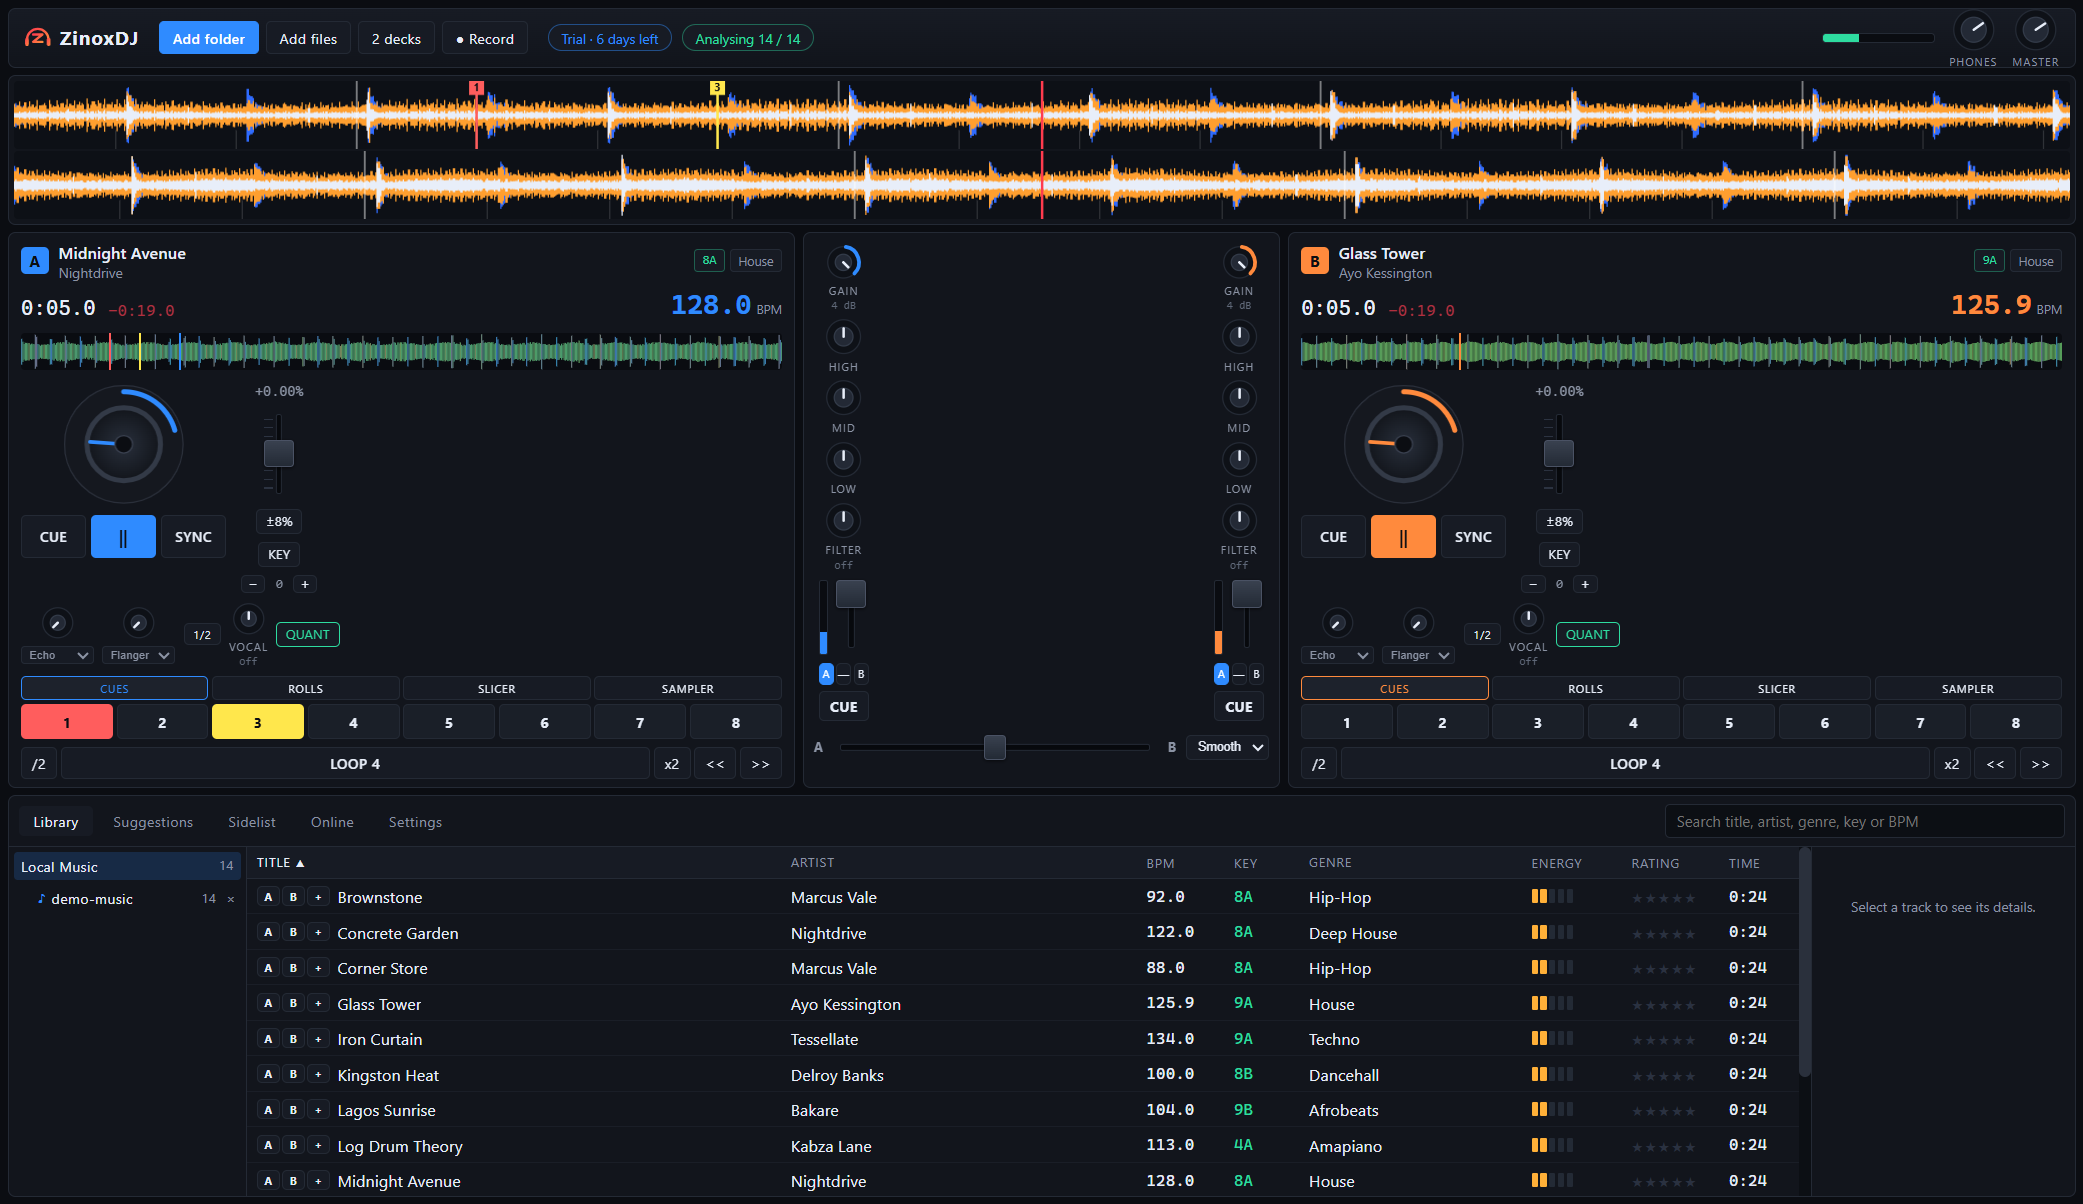
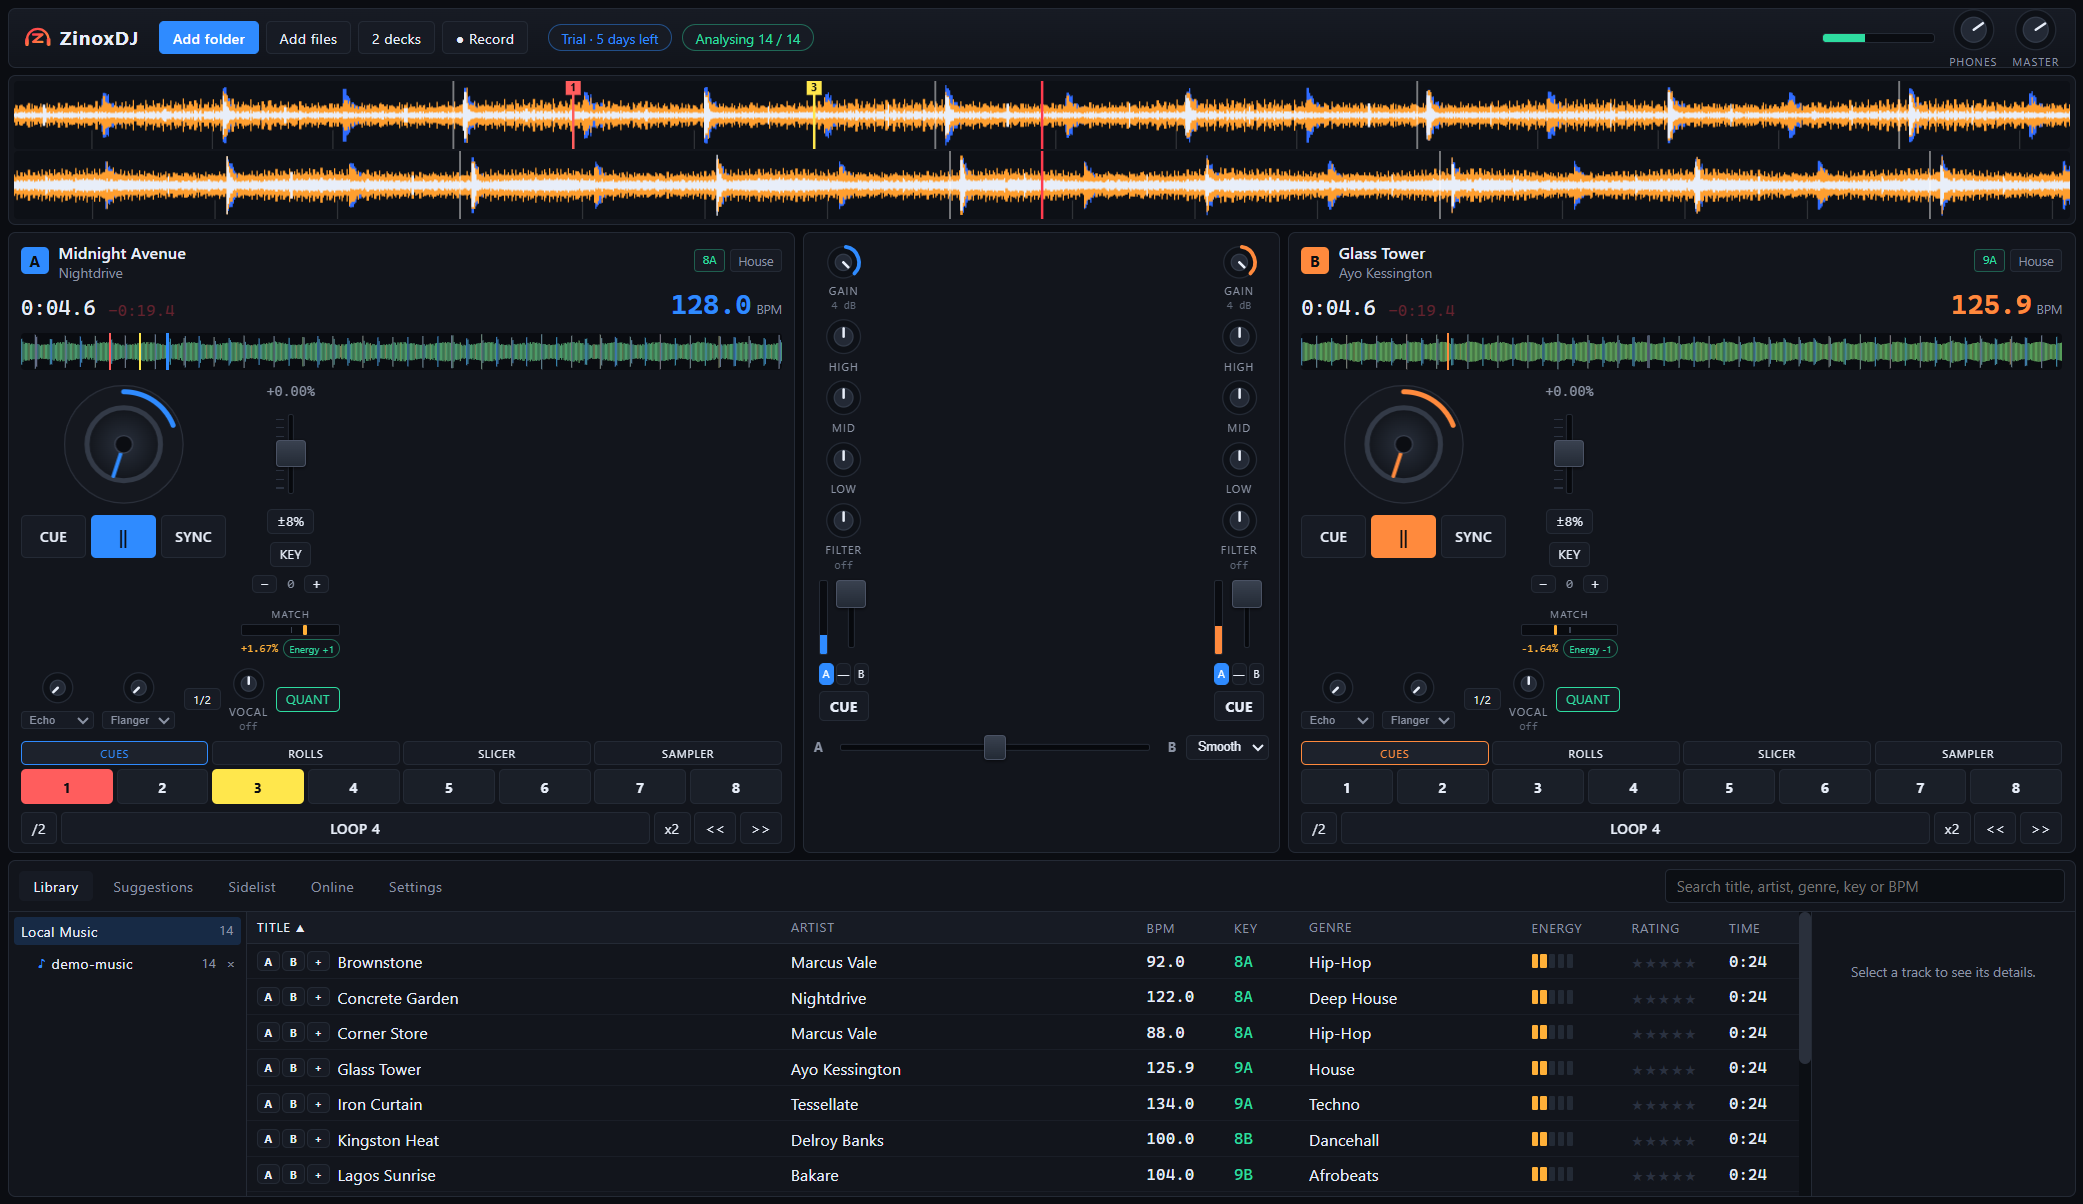
Update the manual and screenshots for the match meter
Each deck now shows how close it is to the other: beat alignment, the
tempo gap and the harmonic relation between the two keys. The published
manual gains the section describing it, and the screenshots are retaken
so the page shows the software as it now looks.

diff --git a/website/zinoxdj-manual.html b/website/zinoxdj-manual.html
@@ -150,6 +150,14 @@
 <p>The vertical fader changes tempo. <strong>±8%</strong> cycles the range (4, 8, 10, 16, 25, 50%). Double-click the fader to snap back to the original tempo.</p>
 <p><strong>KEY</strong> turns on key lock: the tempo changes but the pitch stays put, so a track pulled 6% faster does not sound sharp.</p>
 <p>The <strong>− 0 +</strong> buttons below transpose the track in semitones, independently of tempo — useful for forcing two records into the same key.</p>
+<h3 id="match-meter">Match meter</h3>
+<p>Below the pitch controls, <strong>MATCH</strong> shows how close this deck is to the one it gets blended with — A against B, C against D. It appears once both decks hold a track.</p>
+<ul>
+<li>The <strong>bar</strong> is beat alignment. The needle sits in the centre when the two sets of beats are on top of each other, and up to half a beat either side when they are not. It turns green when they are locked.</li>
+<li>The <strong>percentage</strong> is the tempo gap, in the same units the pitch fader moves. Green inside 0.4%, which is close enough to ride out by ear.</li>
+<li>The <strong>chip</strong> is the harmonic relation between the two keys: green for a safe move, amber for one that needs care, red for a clash.</li>
+</ul>
+<p>The meter measures alignment exactly the way <strong>SYNC</strong> corrects it, so it reads zero when pressing SYNC would do nothing. A deck at half or double the other's tempo counts as matched, not as 50% out.</p>
 <h3 id="waveforms">Waveforms</h3>
 <p>The wide strips across the top are the beat-matching view: the playhead sits in the centre and the music scrolls past. The vertical lines are the beat grid, with every fourth beat brighter to mark the bar. Line the two decks' grids up and they are in time.</p>
 <p>The narrow strip on each deck is the whole track. Click it to jump anywhere.</p>
